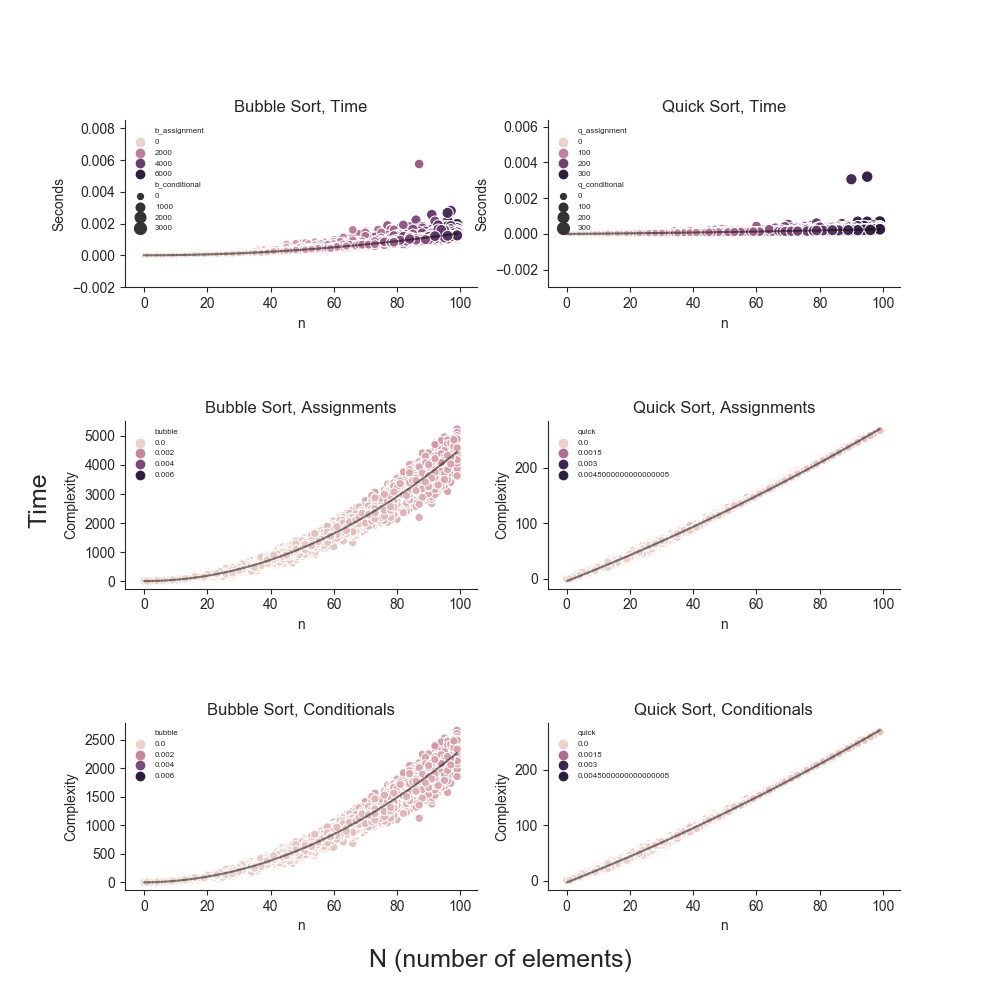
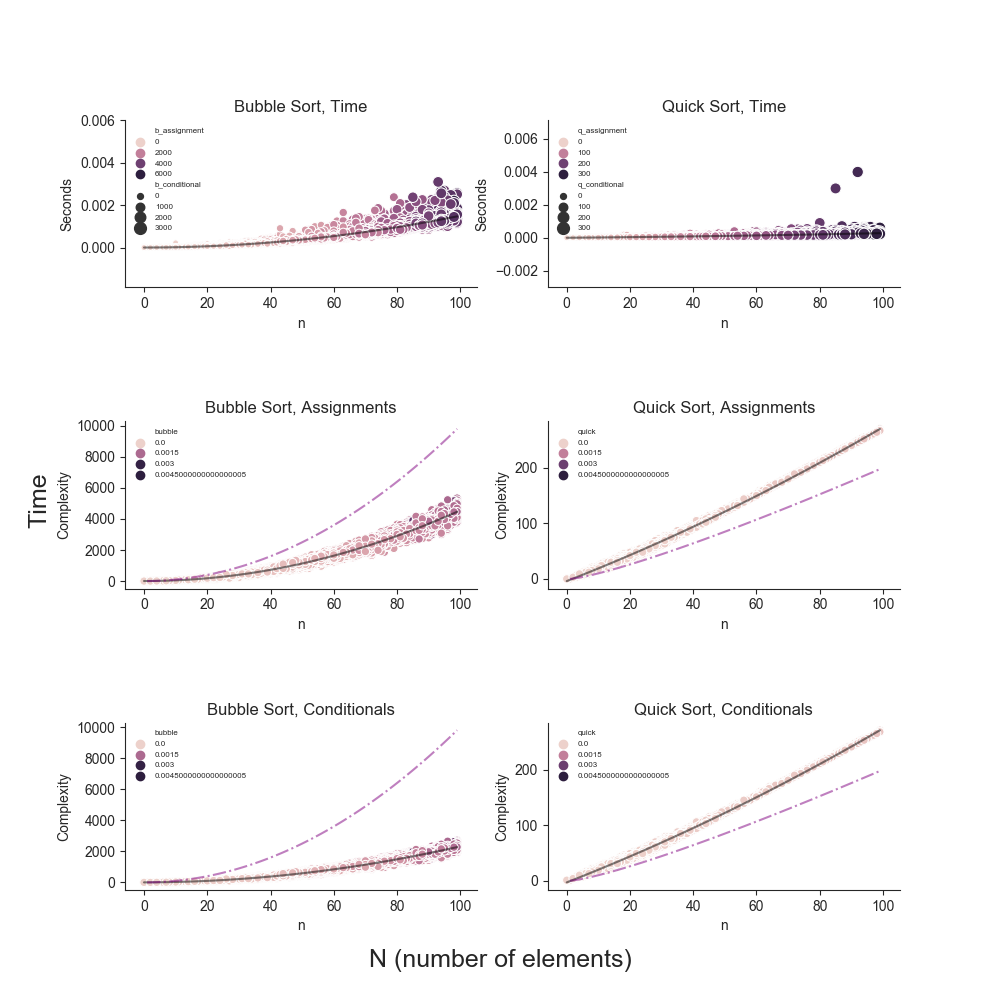
added theoretical n to plot

diff --git a/sort/sort_runs.py b/sort/sort_runs.py
@@ -13,6 +13,7 @@ from .sort_algs import run_bubble_sort,run_quick_sort
 import pandas as pd
 import numpy as np
 import sympy
+from math import log
 
 import seaborn as sns
 import matplotlib.pyplot as plt
@@ -72,8 +73,6 @@ def run_graphing(total,max,element):
     ax5 = plt.subplot(gs[1,1],sharex=ax0)
     ax0.ticklabel_format(style='sci')
 
-    # quick sort on log(n) plot - will look like line
-
     # scatter plots for actual data
     sns.scatterplot(x="n", y="bubble", size="b_conditional", hue="b_assignment", data=pd_lists,ax=ax0)
     sns.scatterplot(x="n", y="quick", size="q_conditional", hue="q_assignment",data=pd_lists,ax=ax1)
@@ -89,6 +88,14 @@ def run_graphing(total,max,element):
     ax3.plot(np.unique(pd_lists['n']), np.poly1d(np.polyfit(pd_lists['n'],pd_lists['b_assignment'], 2))(np.unique(pd_lists['n'])),c='black',alpha=.5)
     ax4.plot(np.unique(pd_lists['n']), np.poly1d(np.polyfit(pd_lists['n'],pd_lists['q_conditional'], 2))(np.unique(pd_lists['n'])),c='black',alpha=.5)
     ax5.plot(np.unique(pd_lists['n']), np.poly1d(np.polyfit(pd_lists['n'],pd_lists['q_assignment'], 2))(np.unique(pd_lists['n'])),c='black',alpha=.5)
+
+    n_val = range(1,element)
+    n_squ = [i ** 2 for i in n_val]
+    n_log = [i*log(i,10) for i in n_val]
+    ax3.plot(n_val,n_squ,c='purple',alpha=.5,linestyle='-.')
+    ax2.plot(n_val,n_squ,c='purple',alpha=.5,linestyle='-.')
+    ax4.plot(n_val,n_log,c='purple',alpha=.5,linestyle='-.')
+    ax5.plot(n_val,n_log,c='purple',alpha=.5,linestyle='-.')
 
     # get and format the big o notation info
     x = sympy.symbols("x")
@@ -110,8 +117,6 @@ def run_graphing(total,max,element):
     bubble_con_o = int(abs(bubble_fit.flat[0]))
     quick_ass_o = int(abs(quick_fit.flat[0]))
     quick_con_o = int(abs(quick_fit.flat[0]))
-
-    # add theoretical O(n2) and O(nlog(n))
 
     # # labeling and formating for graphs
     ax2.set_title("Bubble Sort, Conditionals")#, ${0}$".format(bubble_latex)
